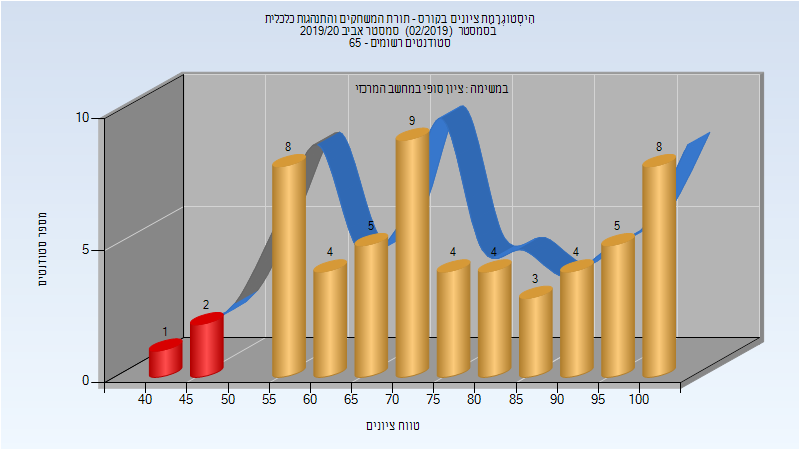
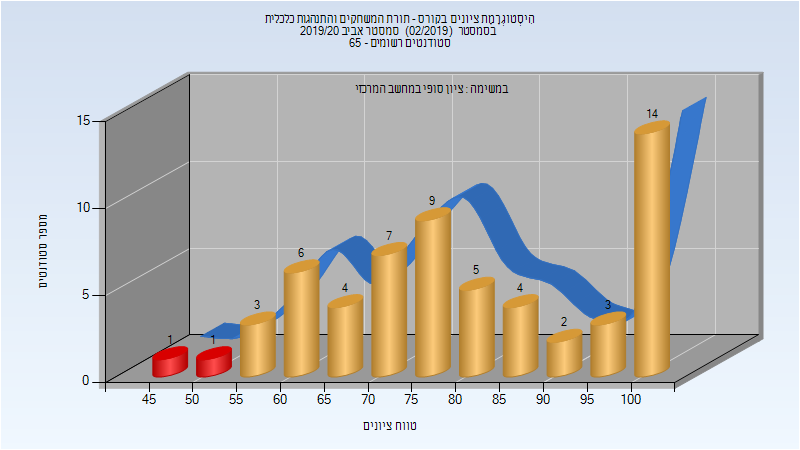
Deploy michael-maltsev/technion-histograms to github.com/michael-maltsev/technion-histograms.git:gh-pages

diff --git a/096570/index.html b/096570/index.html
@@ -680,13 +680,13 @@
 </thead>
 <tbody>
 <tr>
-<td>57</td>
-<td>54/3</td>
-<td>95</td>
-<td>44</td>
+<td>59</td>
+<td>57/2</td>
+<td>97</td>
+<td>49</td>
 <td>100</td>
-<td>76.895</td>
-<td>74</td>
+<td>80.678</td>
+<td>79</td>
 </tr>
 </tbody>
 </table>

diff --git a/096570/README.md b/096570/README.md
@@ -215,5 +215,5 @@
 
 | סטודנטים | עברו/נכשלו | אחוז עוברים | ציון מינימלי | ציון מקסימלי | ממוצע | חציון |
 | ---- | ---- | ---- | ---- | ---- | ---- | ---- |
-| 57 | 54/3 | 95 | 44 | 100 | 76.895 | 74 |
+| 59 | 57/2 | 97 | 49 | 100 | 80.678 | 79 |
 
